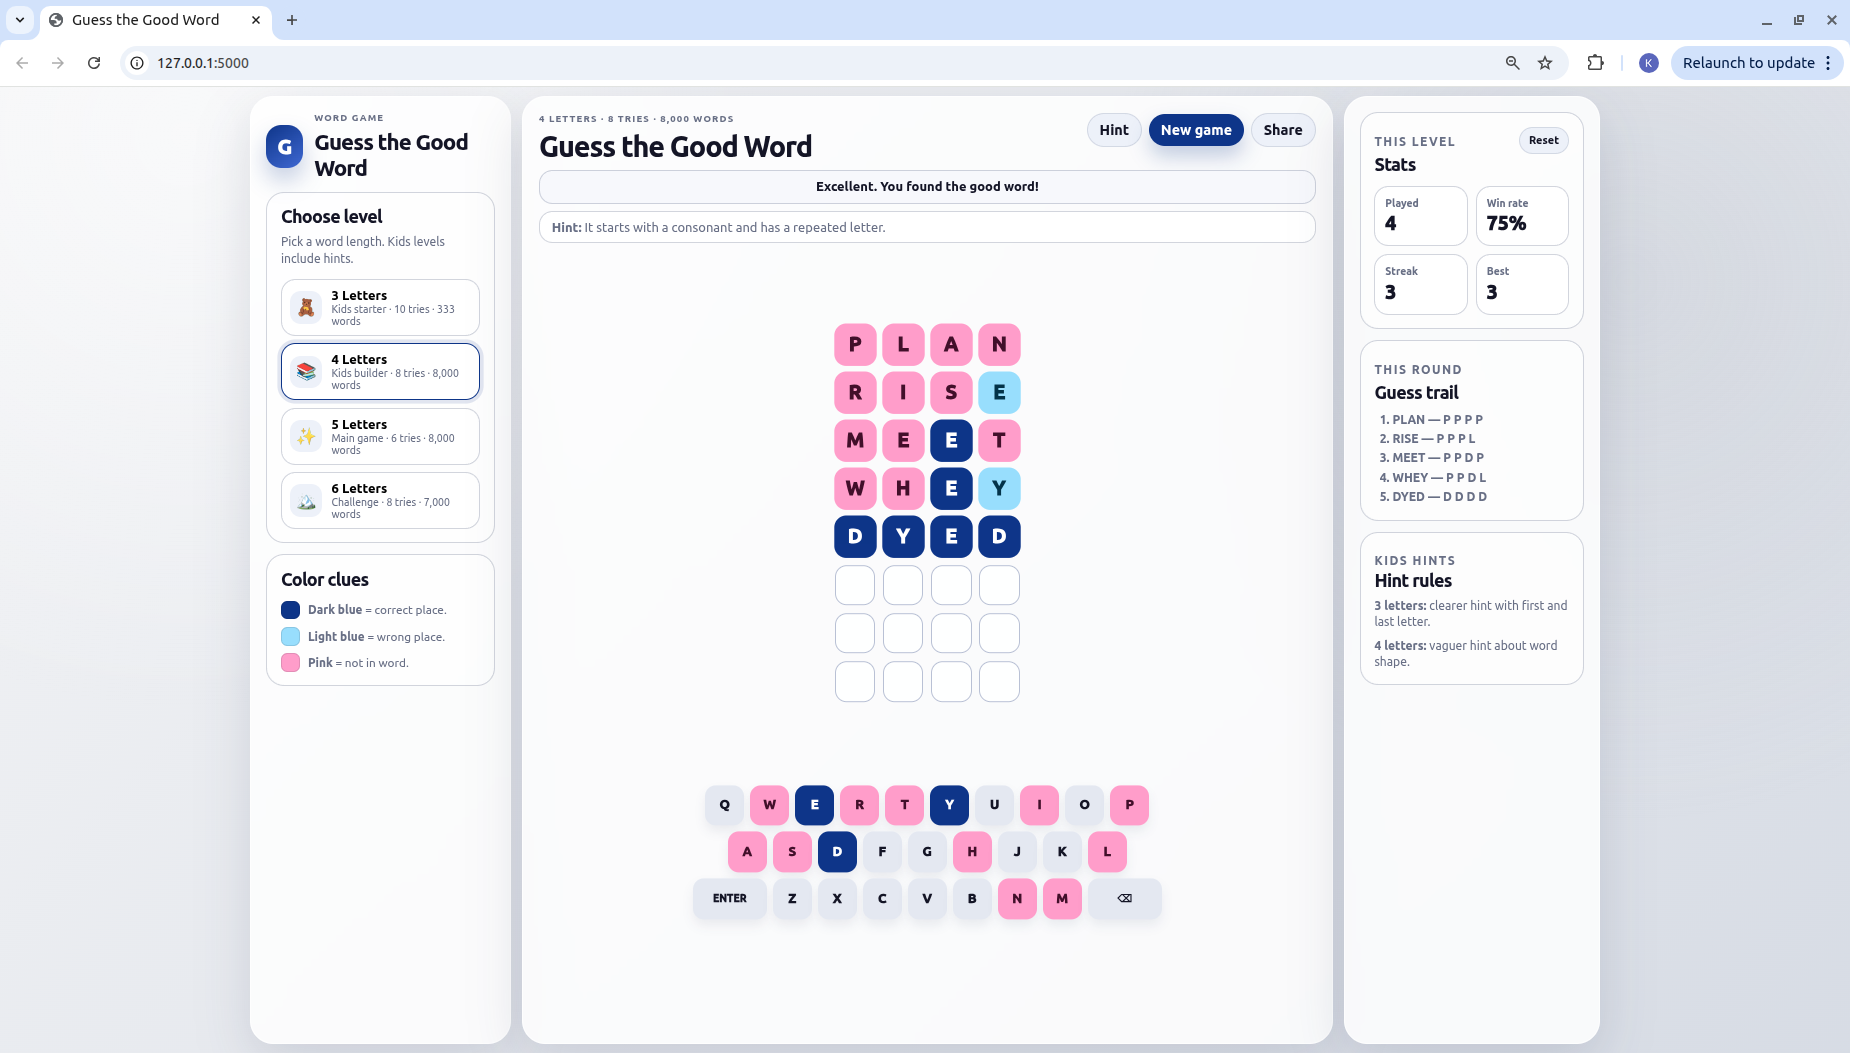
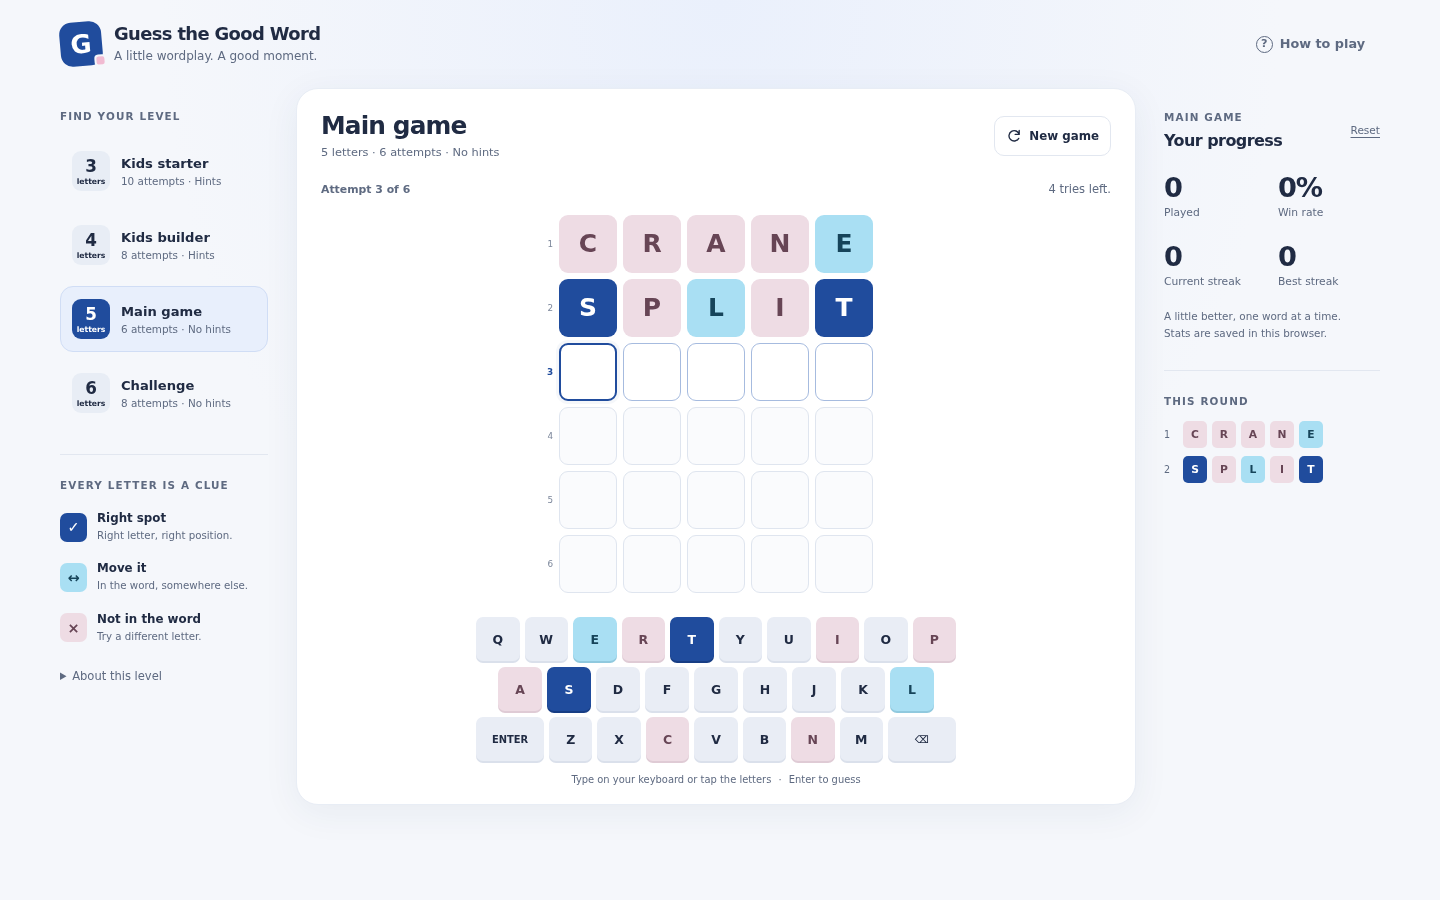
Update README screenshot for redesigned interface

diff --git a/README.md b/README.md
@@ -48,7 +48,9 @@ The frontend uses plain HTML, CSS, and JavaScript; no frontend build step is req
 
 ## Screenshot
 
-![Guess the Good Word screenshot](docs/images/screenshot.png)
+![Guess the Good Word redesigned desktop interface with color-coded guesses, level selection, an on-screen keyboard, and progress stats](docs/images/screenshot.png)
+
+The five-letter main game, showing color clues, the highlighted active row, the on-screen keyboard, and per-level progress.
 
 ## Project structure
 
